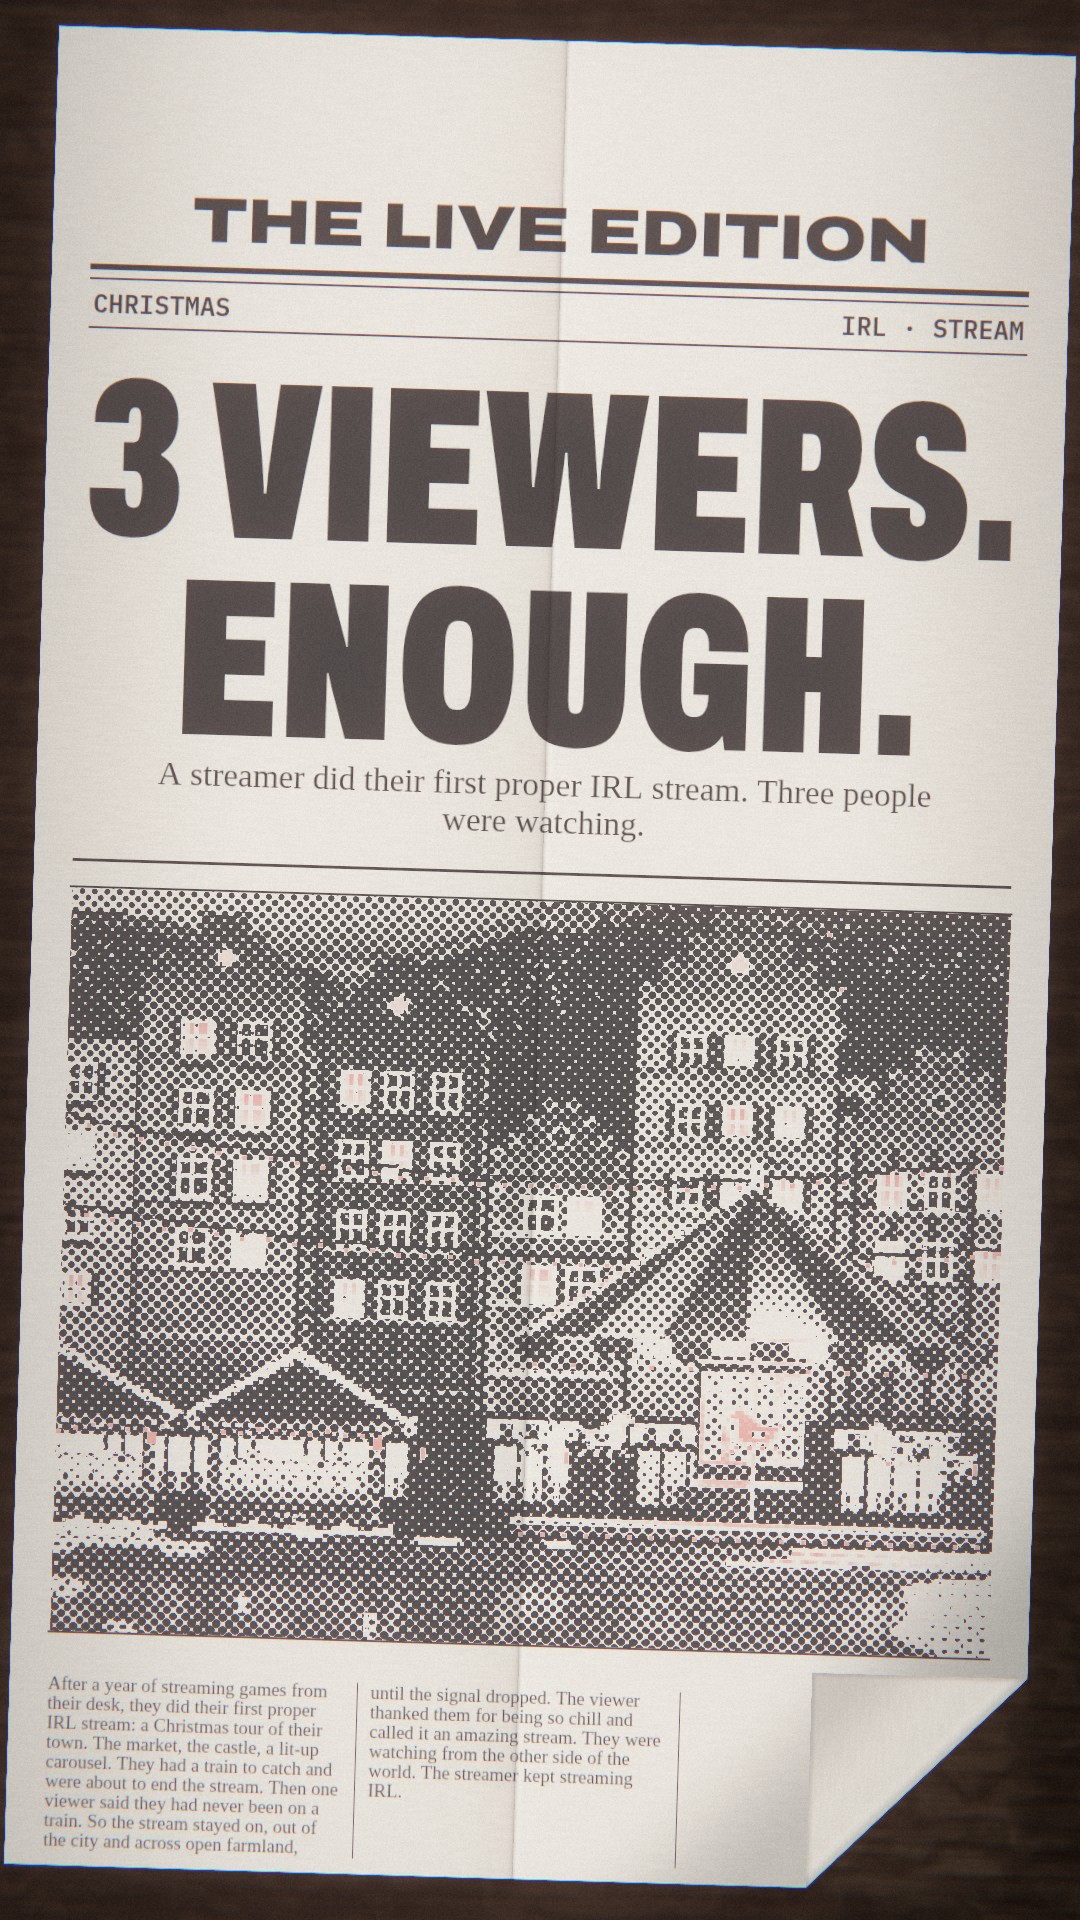
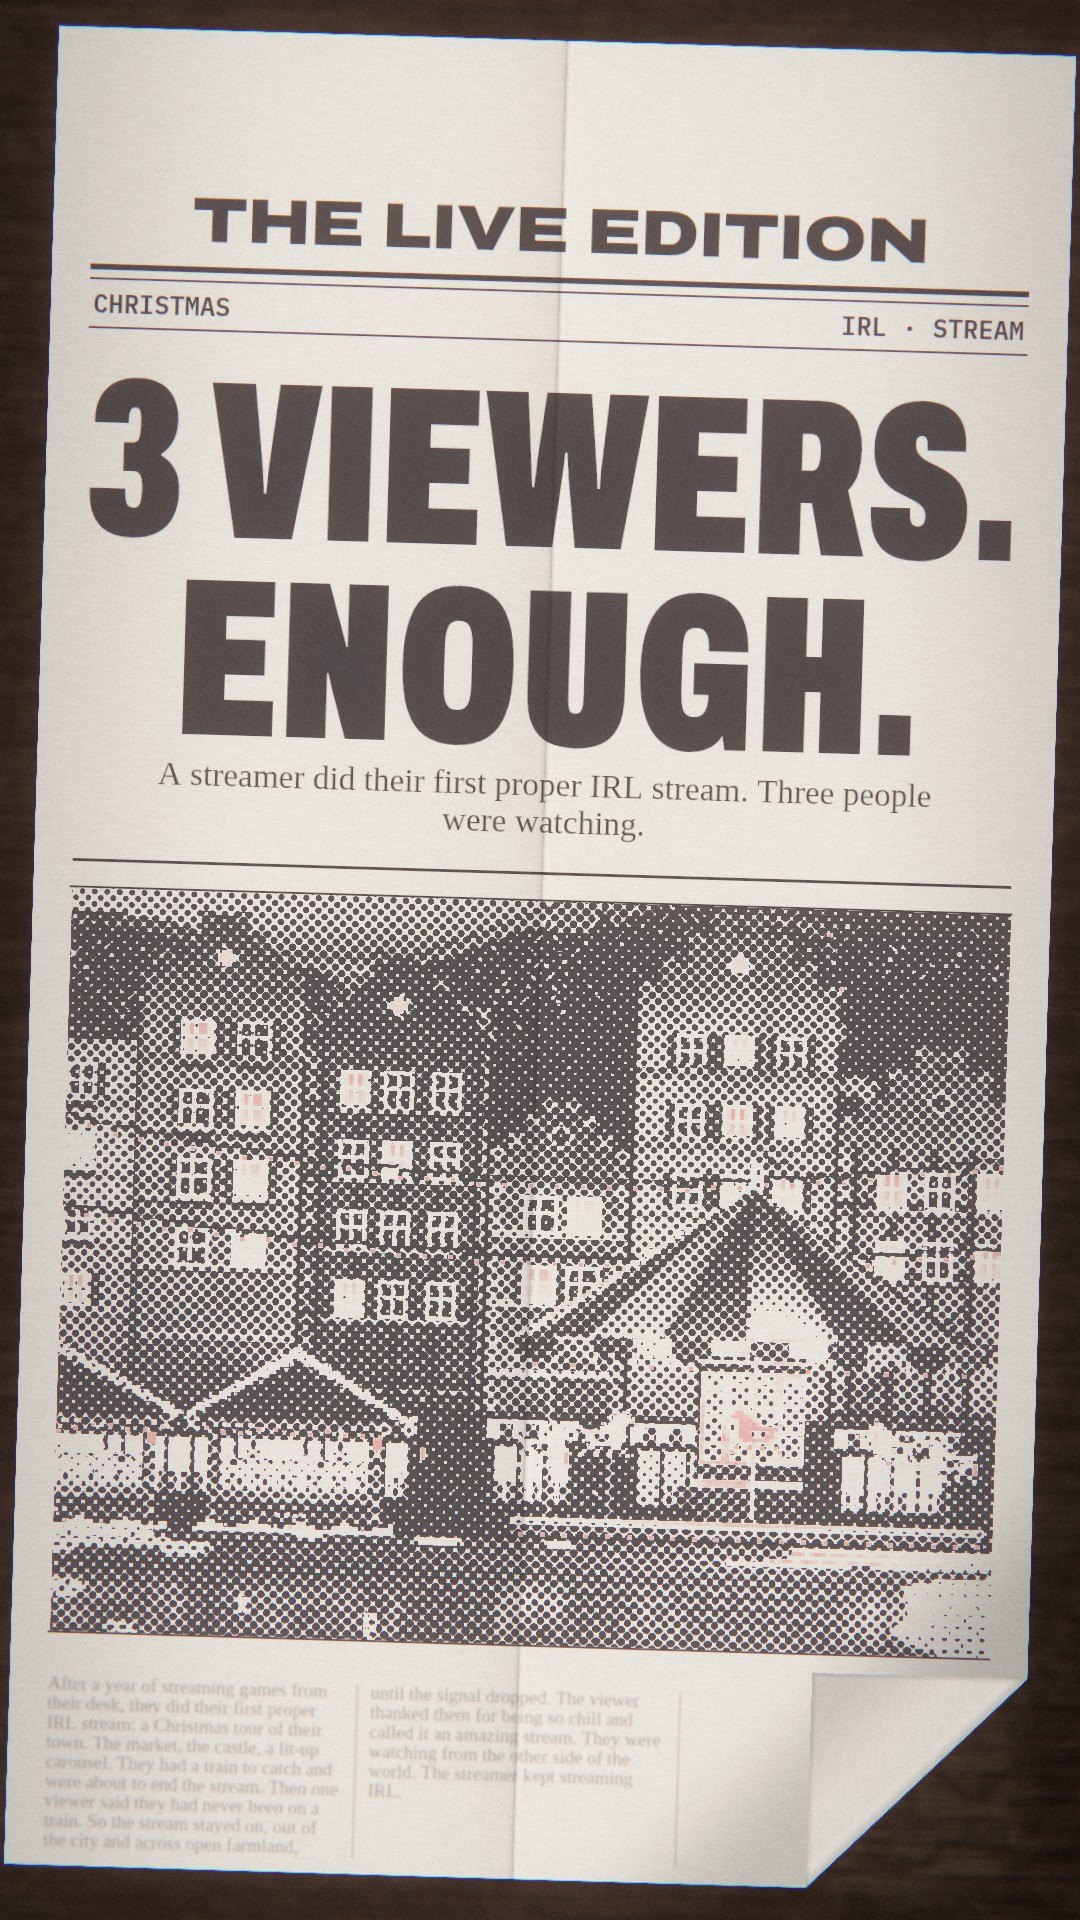
ST-01: soften front-page body copy (page texture under the caption); record the defaults taken
Claude-Session: https://claude.ai/code/session_014ovbscV2XeLVGCnB525Lp4

Changed region(s): [[0.0306, 0.875, 0.3056, 0.9688], [0.3361, 0.875, 0.5806, 0.9375]]

diff --git a/brand-video/app/src/films/ST-01_train-ride/frontpage.ts b/brand-video/app/src/films/ST-01_train-ride/frontpage.ts
@@ -102,11 +102,14 @@ export default class FrontPage extends Scene {
     const bf = F.serif(600), bs = 19, colW = 300, rows = 9;
     const lines = wrap(body, bf, bs, colW);
     c.font = font(bf, bs);
+    // the body sits under the platform caption: set it soft and grey, page texture rather than something to read
+    c.save(); c.filter = 'blur(1.1px)'; c.globalAlpha = 0.6;
     for (let col = 0; col < 3; col++) {
       const x = 60 + col * 330;
       if (col) c.fillRect(x - 14, PHOTO.y + PHOTO.h + 44, 1, 180);
       lines.slice(col * rows, col * rows + rows).forEach((l, k) => c.fillText(l, x, PHOTO.y + PHOTO.h + 60 + k * 20));
     }
+    c.restore();
   }
 
   render(f: Frame, out: THREE.WebGLRenderTarget) {

diff --git a/brand-video/films/ST-01_train-ride/STYLE_FRAMES.md b/brand-video/films/ST-01_train-ride/STYLE_FRAMES.md
@@ -64,9 +64,10 @@ of independent review (final verdict: level 6, see `QA.md`). Times are seconds i
 ## Open points for you
 
 1. The permission message to the Reddit author (draft in the script); `retold with permission` goes into the credit only after a yes.
-2. "Reddit" in the credit: keep (a source credit) or drop (no-brand rule)?
-3. `can you keep it on?` on the phone is the approved script's line, but the post only says the viewer wanted to keep watching: keep it as the viewer's message, or show it only as the sung lyric?
-4. The front-page body copy sits under TikTok's caption (page texture): keep, or soften it?
+2. Defaults taken on the owner's "go" (2026-10-04), each easy to change: "Reddit" stays in the
+   credit as a source credit (the no-brand rule covers our own brand); `can you keep it on?` stays as
+   the viewer's message (approved script v0.9); the front-page body copy is set soft and grey so it
+   reads as page texture under the platform caption.
 
 ## Change after approval (owner, 2026-10-04)
 
